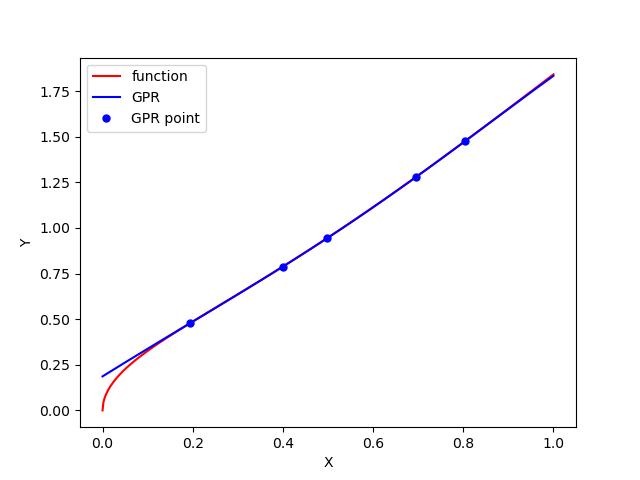
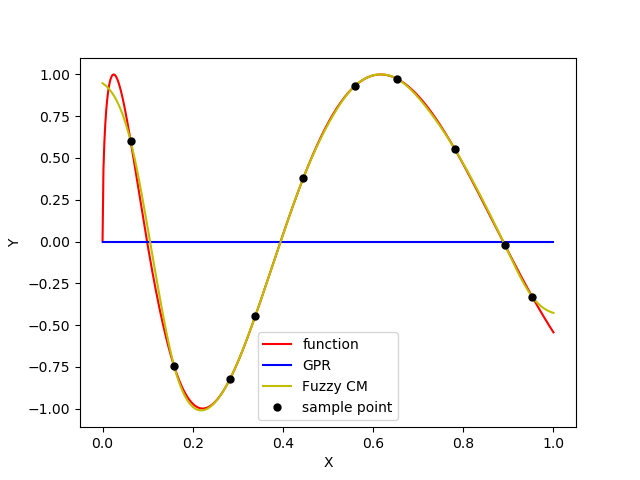
#2 update kernel and update debug function

diff --git a/model.py b/model.py
@@ -14,7 +14,22 @@ class modelInterface(ABC):
 class GPR(modelInterface):
 
     def __init__(self, sampleX: list, sampleY: list):
-        kernel = GPy.kern.RBF(1)
+        kernel = GPy.kern.RBF(1)+GPy.kern.Matern32(1)
+        self.model = GPy.models.GPRegression(sampleX[:, None], sampleY[:, None], kernel=kernel)
+        self.model.optimize()
+
+    def getPredictValue(self, x: list):
+        return [val[0] for val in
+                self.model.predict_quantiles(
+                    x[:, None],
+                    quantiles=(2.5, 50, 97.5)
+                )[1]]
+
+
+class FuzzyCM(modelInterface):
+
+    def __init__(self, sampleX: list, sampleY: list):
+        kernel = GPy.kern.RBF(1)+GPy.kern.Matern32(1)
         self.model = GPy.models.GPRegression(sampleX[:, None], sampleY[:, None], kernel=kernel)
         self.model.optimize()
 
@@ -29,28 +44,31 @@ class GPR(modelInterface):
 if __name__ == "__main__":
     # test function
     def f(x: float):
-        return np.sqrt(x)+np.sin(x)*x
+        return np.sin(np.sqrt(x)*10.0)
 
     print("-- create model-- ")
     # create sample point
-    SIZE = 5
+    SIZE = 10
     X = np.array([s[0] for s in lhs(1, SIZE)])
     Y = np.array([f(i) for i in X])
     print(X)
 
     # create model
     MODEL = GPR(X, Y)
+    MODEL_FUZZY = FuzzyCM(X, Y)
 
     # create sample point for debug
     ALL_X = np.linspace(0.0, 1.0, 500)
     ALL_Y_TRUE = f(ALL_X)
     ALL_Y_GPR = MODEL.getPredictValue(ALL_X)
+    ALL_Y_FUZZY = MODEL_FUZZY.getPredictValue(ALL_X)
 
     print("-- create figure-- ")
     # create model figure
     plt.plot(ALL_X, ALL_Y_TRUE, c="r", label='function')
     plt.plot(ALL_X, ALL_Y_GPR, c="b", label='GPR')
-    plt.plot(X, Y, 'o', marker=".", markersize=10, c="b", label="GPR point")
+    plt.plot(ALL_X, ALL_Y_FUZZY, c="y", label='Fuzzy CM')
+    plt.plot(X, Y, 'o', marker=".", markersize=10, c="black", label="sample point")
     plt.legend()
 
     plt.xlabel("X")
